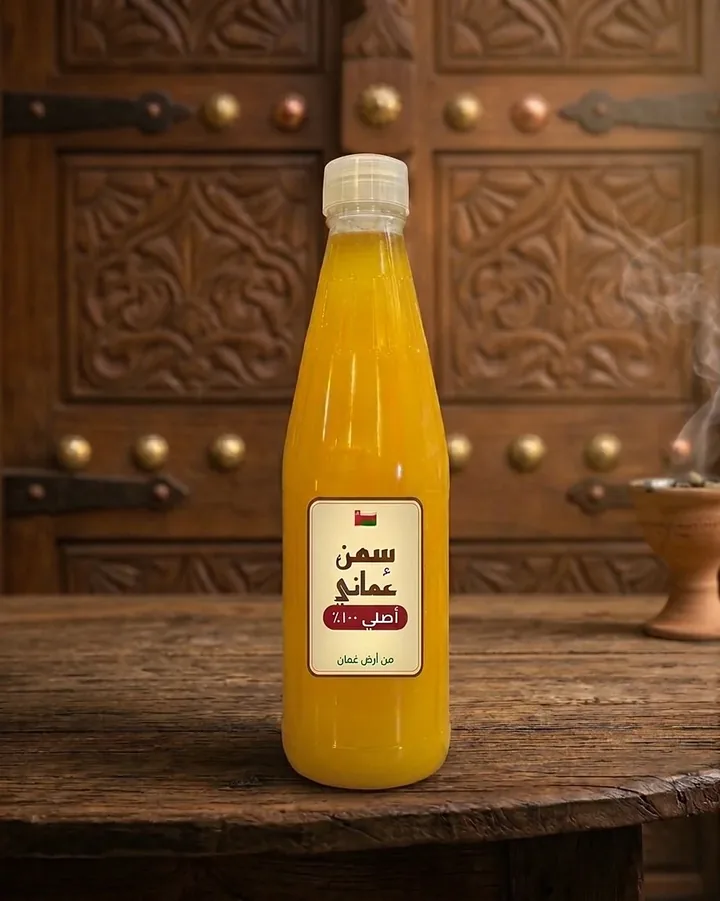
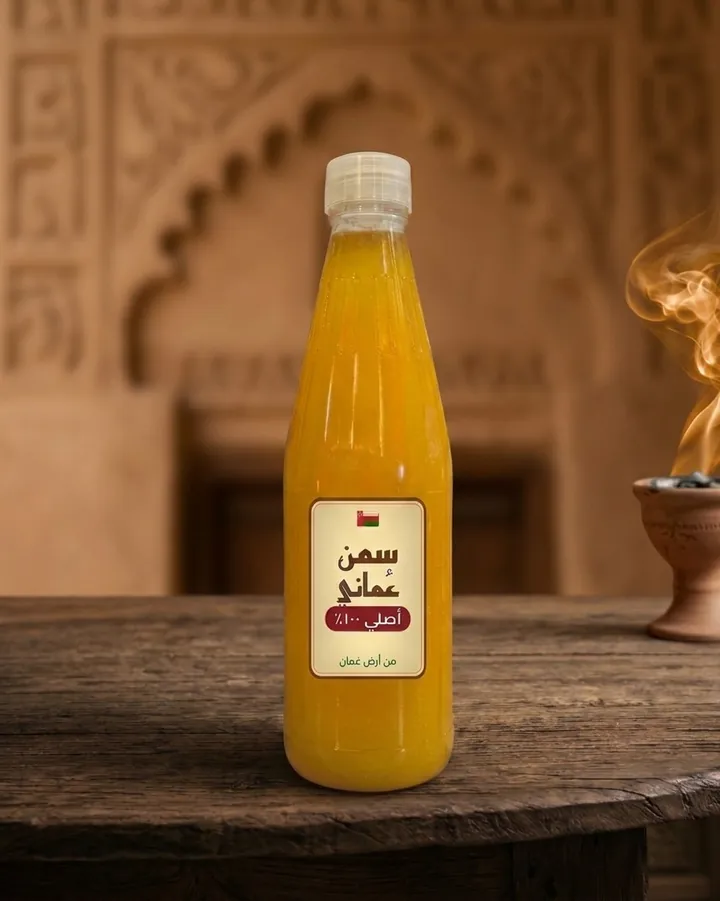
تحديث صورة المطبخ وصورة الغرشة بالنسخ المعدلة
Claude-Session: https://claude.ai/code/session_013cLyPGCo6X6PFnipsAmehU

diff --git a/templates/home.html b/templates/home.html
@@ -27,7 +27,7 @@
     <div class="hero-visual" data-depth="0.12">
       <div class="arch-photo">
         <div class="frame"></div>
-        <div class="photo"><img src="{{ url_for('static', filename='img/hero-kitchen.webp') }}" srcset="{{ url_for('static', filename='img/hero-kitchen-480.webp') }} 480w, {{ url_for('static', filename='img/hero-kitchen-720.webp') }} 720w, {{ url_for('static', filename='img/hero-kitchen.webp') }} 921w" sizes="(max-width: 960px) 84vw, 440px" width="921" height="1152" alt="غرشتين سمن عُماني أصلي على صينية خشب منحوتة في مطبخ عماني قديم مع التمر والزعفران والدلة" fetchpriority="high"></div>
+        <div class="photo"><img src="{{ url_for('static', filename='img/hero-kitchen.webp') }}?v=2" srcset="{{ url_for('static', filename='img/hero-kitchen-480.webp') }}?v=2 480w, {{ url_for('static', filename='img/hero-kitchen-720.webp') }}?v=2 720w, {{ url_for('static', filename='img/hero-kitchen.webp') }}?v=2 921w" sizes="(max-width: 960px) 84vw, 440px" width="921" height="1152" alt="غرشتين سمن عُماني أصلي على صينية خشب منحوتة في مطبخ عماني قديم مع التمر والزعفران والدلة" fetchpriority="high"></div>
       </div>
       <div class="badge-round" data-depth="0.3"><div><b>١٠٠٪</b><small>أصلي</small></div></div>
       <span class="tag" data-depth="0.25">الريحة خيال ♡</span>
@@ -44,7 +44,7 @@
 <section class="block" id="shop">
   <div class="wrap showcase">
     <div class="showcase-photo reveal">
-      <figure class="main"><img src="{{ url_for('static', filename='img/product-single.webp') }}" srcset="{{ url_for('static', filename='img/product-single-480.webp') }} 480w, {{ url_for('static', filename='img/product-single-720.webp') }} 720w, {{ url_for('static', filename='img/product-single.webp') }} 921w" sizes="(max-width: 960px) 90vw, 520px" alt="{{ p.name }}" loading="lazy" width="921" height="1152"></figure>
+      <figure class="main"><img src="{{ url_for('static', filename='img/product-single.webp') }}?v=2" srcset="{{ url_for('static', filename='img/product-single-480.webp') }}?v=2 480w, {{ url_for('static', filename='img/product-single-720.webp') }}?v=2 720w, {{ url_for('static', filename='img/product-single.webp') }}?v=2 921w" sizes="(max-width: 960px) 90vw, 520px" alt="{{ p.name }}" loading="lazy" width="921" height="1152"></figure>
       <figure class="inset"><img src="{{ url_for('static', filename='img/close-label.webp') }}" alt="ملصق سمن عُماني أصلي" loading="lazy"></figure>
       <span class="ribbon-tag">من أرض عُمان ♡</span>
     </div>

diff --git a/templates/base.html b/templates/base.html
@@ -9,7 +9,7 @@
 <meta name="theme-color" content="#efebe5">
 <meta property="og:title" content="{{ store_name }} | سمن عُماني أصلي">
 <meta property="og:description" content="ميه بالميه ولذيذ، والريحة خيال. اطلب الحين والتوصيل لكل المحافظات.">
-<meta property="og:image" content="{{ url_for('static', filename='img/hero-kitchen.webp', _external=True) }}">
+<meta property="og:image" content="{{ url_for('static', filename='img/hero-kitchen.webp', _external=True) }}?v=2">
 <link rel="icon" href="{{ url_for('static', filename='favicon.svg') }}" type="image/svg+xml">
 <link rel="preload" href="{{ url_for('static', filename='fonts/ReadexPro-arabic.woff2') }}" as="font" type="font/woff2" crossorigin>
 <link rel="preload" href="{{ url_for('static', filename='fonts/ArefRuqaa-arabic.woff2') }}" as="font" type="font/woff2" crossorigin>

diff --git a/app.py b/app.py
@@ -159,9 +159,10 @@ def init_db():
     for k, v in DEFAULT_SETTINGS.items():
         conn.execute("INSERT OR IGNORE INTO settings (key, value) VALUES (?, ?)", (k, v))
     # أول تشغيل: السمن العماني بحجمين وأسعار إعلان المتجر، مع صورة الغراش الحقيقية
+    # الصورة تنسخ لمجلد الرفع باسم فيه رقم نسخة، نغيّره كل ما تتحدث صورة الغرشة عشان المتصفحات ما تعرض القديمة
+    seed_src, image = os.path.join(BASE_DIR, "static", "img", "product-single.webp"), "product-single-2.webp"
     if conn.execute("SELECT COUNT(*) FROM products").fetchone()[0] == 0:
-        image = "product-single.webp"
-        shutil.copyfile(os.path.join(BASE_DIR, "static", "img", image), os.path.join(UPLOAD_DIR, image))
+        shutil.copyfile(seed_src, os.path.join(UPLOAD_DIR, image))
         pid = conn.execute(
             "INSERT INTO products (name, tagline, description, image, sort) VALUES (?, ?, ?, ?, 0)",
             ("سمن عُماني أصلي", "ميه بالميه ولذيذ، والريحة خيال",
@@ -170,6 +171,10 @@ def init_db():
         ).lastrowid
         for i, (label, price) in enumerate([("غرشة كبيرة (فيمتو أو تانج)", 5000), ("غرشة صغيرة", 3000)]):
             conn.execute("INSERT INTO variants (product_id, label, price, sort) VALUES (?, ?, ?, ?)", (pid, label, price, i))
+    # متجر قائم بصورة الغرشة القديمة: بدّلها بالجديدة (الصور اللي رفعها التاجر بنفسه ما تنلمس)
+    elif conn.execute("SELECT 1 FROM products WHERE image = 'product-single.webp'").fetchone():
+        shutil.copyfile(seed_src, os.path.join(UPLOAD_DIR, image))
+        conn.execute("UPDATE products SET image = ? WHERE image = 'product-single.webp'", (image,))
     conn.commit()
     conn.close()
 
